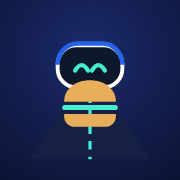
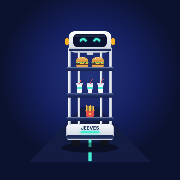
Intro animada al abrir y nuevo ícono con Jeeves real
Claude-Session: https://claude.ai/code/session_01TehPfhg7HbtDfQuWTN6JQS

Changed region(s): [[0.3056, 0.1667, 0.6944, 0.9167], [0.6389, 0.0, 1.0, 0.4444], [0.0, 0.0, 0.3611, 0.4722]]

diff --git a/juego.css b/juego.css
@@ -121,3 +121,35 @@ svg{display:block}
 .joy .knob{position:absolute;left:50%;top:50%;width:56px;height:56px;margin:-28px 0 0 -28px;border-radius:50%;background:radial-gradient(circle at 40% 35%,#7FF5E2,var(--mint) 60%,#2FC9AF);box-shadow:0 8px 18px -4px rgba(69,237,209,.6),inset 0 -4px 8px rgba(0,0,0,.15);transition:transform .25s var(--ease)}
 .joy.on .knob{transition:none}
 .joy.on{border-color:rgba(69,237,209,.55)}
+
+/* Intro al abrir */
+#intro{position:absolute;inset:0;z-index:20;background:#0B1230;overflow:hidden;display:none}
+#intro.go{display:block}
+#intro.out{animation:inOut .6s cubic-bezier(.7,0,.84,0) forwards}
+@keyframes inOut{to{opacity:0;transform:scale(1.08)}}
+.in-glow{position:absolute;left:50%;top:44%;width:140vmax;height:140vmax;margin:-70vmax 0 0 -70vmax;border-radius:50%;background:radial-gradient(circle,rgba(37,99,235,.35),rgba(11,18,48,0) 45%);opacity:0;animation:inFade 1.2s .4s ease forwards}
+.in-icon{position:absolute;left:50%;top:50%;width:min(64%,330px);aspect-ratio:1;transform:translate(-50%,-50%);animation:inIcon .8s .15s cubic-bezier(.6,0,.4,1) forwards}
+@keyframes inIcon{40%{transform:translate(-50%,-50%) scale(.94)}100%{transform:translate(-50%,-50%) scale(1.5);opacity:0;filter:blur(6px)}}
+.in-ring{position:absolute;left:50%;top:50%;width:120px;height:120px;margin:-60px 0 0 -60px;border-radius:50%;border:2px solid var(--mint);opacity:0;animation:inRing .9s .5s cubic-bezier(.16,1,.3,1) forwards}
+@keyframes inRing{0%{opacity:.9;transform:scale(.4)}100%{opacity:0;transform:scale(5)}}
+.in-lines i{position:absolute;left:50%;top:46%;width:2px;height:22vh;margin-left:-1px;transform-origin:50% 0;background:linear-gradient(rgba(69,237,209,0),rgba(69,237,209,.7));opacity:0;border-radius:2px}
+.in-lines i:nth-child(1){--r:0deg}.in-lines i:nth-child(2){--r:30deg}.in-lines i:nth-child(3){--r:60deg}.in-lines i:nth-child(4){--r:90deg}.in-lines i:nth-child(5){--r:120deg}.in-lines i:nth-child(6){--r:150deg}.in-lines i:nth-child(7){--r:180deg}.in-lines i:nth-child(8){--r:210deg}.in-lines i:nth-child(9){--r:240deg}.in-lines i:nth-child(10){--r:270deg}.in-lines i:nth-child(11){--r:300deg}.in-lines i:nth-child(12){--r:330deg}
+.in-lines i{animation:inLine .9s cubic-bezier(.2,.7,.3,1) forwards;animation-delay:calc(.55s + var(--d,0s))}
+.in-lines i:nth-child(odd){--d:.08s;background:linear-gradient(rgba(255,255,255,0),rgba(255,255,255,.55))}
+@keyframes inLine{0%{opacity:0;transform:rotate(var(--r)) translateY(10vh) scaleY(.2)}30%{opacity:1}100%{opacity:0;transform:rotate(var(--r)) translateY(60vh) scaleY(1.2)}}
+.in-road{position:absolute;left:50%;top:58%;bottom:0;width:120vw;transform:translateX(-50%);clip-path:polygon(46% 0,54% 0,100% 100%,0 100%);background:linear-gradient(#1A2350,#121A3D);opacity:0;animation:inFade .6s .75s ease forwards}
+.in-road b{position:absolute;left:50%;top:0;bottom:0;width:6px;margin-left:-3px;background:repeating-linear-gradient(var(--mint) 0 26px,transparent 26px 50px);transform-origin:50% 0;transform:scaleY(0);animation:inDash .9s .8s cubic-bezier(.16,1,.3,1) forwards,inRun .5s 1.7s linear infinite}
+@keyframes inDash{to{transform:scaleY(1)}}
+@keyframes inRun{from{background-position:0 0}to{background-position:0 50px}}
+.in-bot{position:absolute;left:50%;top:58%;height:min(34vh,300px);transform:translate(-50%,-100%) translateY(60vh) scale(.7);opacity:0;filter:drop-shadow(0 18px 24px rgba(0,0,0,.55));animation:inBot 1.1s .85s cubic-bezier(.2,1.25,.4,1) forwards}
+@keyframes inBot{0%{opacity:1}100%{opacity:1;transform:translate(-50%,-100%) translateY(0) scale(1)}}
+.in-text{position:absolute;left:0;right:0;top:calc(58% + 28px);text-align:center;padding:0 16px}
+.in-title{margin:0;text-shadow:0 4px 30px rgba(11,18,48,.9);font:700 clamp(40px,12vw,64px)/1 var(--f-display);letter-spacing:-.045em;white-space:nowrap;position:relative;display:inline-block;overflow:hidden;padding:0 .05em .08em}
+.in-title span{display:inline-block;opacity:0;transform:translateY(.7em) rotate(8deg);animation:inLetter .7s cubic-bezier(.16,1,.3,1) forwards;animation-delay:calc(1.35s + var(--i) * 45ms)}
+.in-title .sp{width:.26em}
+.in-title::after{content:"";position:absolute;top:0;bottom:0;left:-40%;width:30%;background:linear-gradient(100deg,transparent,rgba(255,255,255,.75),transparent);transform:skewX(-18deg);mix-blend-mode:overlay;opacity:0;animation:inShine .8s 2.3s ease-out forwards}
+@keyframes inShine{0%{opacity:1;left:-40%}100%{opacity:1;left:120%}}
+@keyframes inLetter{to{opacity:1;transform:none}}
+.in-text p{margin:10px 0 0;font:600 13px/1 var(--f-text);letter-spacing:.18em;text-transform:uppercase;color:var(--mint);opacity:0;animation:inFade .8s 2s ease forwards}
+@keyframes inFade{to{opacity:1}}
+.in-title span:nth-child(1){--i:1}.in-title span:nth-child(2){--i:2}.in-title span:nth-child(3){--i:3}.in-title span:nth-child(4){--i:4}.in-title span:nth-child(5){--i:5}.in-title span:nth-child(6){--i:6}.in-title span:nth-child(7){--i:7}.in-title span:nth-child(8){--i:8}.in-title span:nth-child(9){--i:9}.in-title span:nth-child(10){--i:10}.in-title span:nth-child(11){--i:11}.in-title span:nth-child(12){--i:12}.in-title span:nth-child(13){--i:13}.in-title span:nth-child(14){--i:14}

diff --git a/juego.js b/juego.js
@@ -938,7 +938,33 @@
   if (iosHint && !standalone && /iphone|ipad|ipod/i.test(navigator.userAgent)) iosHint.hidden = false;
   if ('serviceWorker' in navigator && (location.protocol === 'https:' || location.hostname === 'localhost')) window.addEventListener('load', function () { navigator.serviceWorker.register('sw.js').catch(function () {}); });
 
+  /* retrato de Jeeves de frente, cargado (para la intro y el ícono) */
+  function portrait(w) {
+    var tex = jeevesFrontTex(MINT), k = w / 200;
+    return mk(w, Math.round(420 * k), function (c) {
+      c.scale(k, k); c.drawImage(tex, 0, 0);
+      drawBurger(c, 72, 132, 46); drawBurger(c, 128, 132, 46);
+      drawDrink(c, 62, 226, 24); drawDrink(c, 100, 226, 24); drawDrink(c, 138, 226, 24); drawFries(c, 100, 310, 36);
+      c.fillStyle = MINT; c.strokeStyle = MINT; c.lineCap = 'round'; c.shadowColor = MINT; c.shadowBlur = 10; c.lineWidth = 7;
+      [76, 124].forEach(function (x) { c.beginPath(); c.arc(x, 44, 10, Math.PI * 1.15, Math.PI * 1.85); c.stroke(); });
+    });
+  }
+
+  /* intro al abrir: sigue desde la pantalla de arranque del celular */
+  (function intro() {
+    var el = $('#intro'); if (!el) return;
+    var seen = false; try { seen = sessionStorage.getItem('jx-intro') === '1'; } catch (e) {}
+    if (seen || reduce) { el.remove(); return; }
+    try { sessionStorage.setItem('jx-intro', '1'); } catch (e) {}
+    var img = el.querySelector('.in-bot'); try { img.src = portrait(240).toDataURL('image/png'); } catch (e) {}
+    el.classList.add('go');
+    var gone = false;
+    function close() { if (gone) return; gone = true; el.classList.add('out'); setTimeout(function () { el.remove(); }, 650); }
+    el.addEventListener('pointerdown', close);
+    setTimeout(close, 3300);
+  })();
+
   build(); resetRace(true); resize(); paintRecords($('#recStart'));
-  window.__jx = { T: T, st: ST, segs: function () { return segs.length; }, finishNow: function () { ST.pos = FINISH - PZ - 600; ST.x = 0; ST.tx = 0; }, rivals: function () { return rivals; }, FINISH: FINISH, startRace: startRace, resto: function () { return R; }, deliver: function (k) { deliver(k); }, goTo: function (i) { goTo(R.tables[i]); } };
+  window.__jx = { T: T, st: ST, segs: function () { return segs.length; }, finishNow: function () { ST.pos = FINISH - PZ - 600; ST.x = 0; ST.tx = 0; }, rivals: function () { return rivals; }, FINISH: FINISH, startRace: startRace, portrait: portrait, resto: function () { return R; }, deliver: function (k) { deliver(k); }, goTo: function (i) { goTo(R.tables[i]); } };
   requestAnimationFrame(function (ts) { last = ts; loop(ts); });
 })();

diff --git a/sw.js b/sw.js
@@ -1,6 +1,6 @@
 /* Jeeves Express: funciona sin internet una vez abierto.
    Primero intenta la red (para tener siempre la versión nueva) y si tarda o no hay, usa lo guardado. */
-var V = 'jeeves-express-v3';
+var V = 'jeeves-express-v4';
 var FILES = ['./', 'index.html', 'juego.css', 'juego.js', 'manifest.webmanifest', 'icons/icon-192.png', 'icons/icon-512.png', 'icons/icon-180.png', 'favicon.svg', 'musica.mp3'];
 self.addEventListener('install', function (e) { e.waitUntil(caches.open(V).then(function (c) { return Promise.all(FILES.map(function (f) { return c.add(f).catch(function () {}); })); }).then(function () { return self.skipWaiting(); })); });
 self.addEventListener('activate', function (e) { e.waitUntil(caches.keys().then(function (ks) { return Promise.all(ks.filter(function (k) { return k !== V; }).map(function (k) { return caches.delete(k); })); }).then(function () { return self.clients.claim(); })); });

diff --git a/index.html b/index.html
@@ -33,6 +33,18 @@
 </svg>
 
 <main id="game" aria-label="Jeeves Express">
+  <div id="intro" aria-hidden="true">
+    <div class="in-glow"></div>
+    <div class="in-lines"><i></i><i></i><i></i><i></i><i></i><i></i><i></i><i></i><i></i><i></i><i></i><i></i></div>
+    <img class="in-icon" src="icons/icon-512.png" alt="">
+    <div class="in-road"><b></b></div>
+    <img class="in-bot" alt="">
+    <div class="in-text">
+      <h2 class="in-title"><span>J</span><span>e</span><span>e</span><span>v</span><span>e</span><span>s</span><span class="sp"></span><span>E</span><span>x</span><span>p</span><span>r</span><span>e</span><span>s</span><span>s</span></h2>
+      <p>La carrera de la hamburguesa</p>
+    </div>
+    <i class="in-ring"></i>
+  </div>
   <canvas id="cv" aria-label="Pista de la carrera"></canvas>
 
   <div id="hud" hidden>
